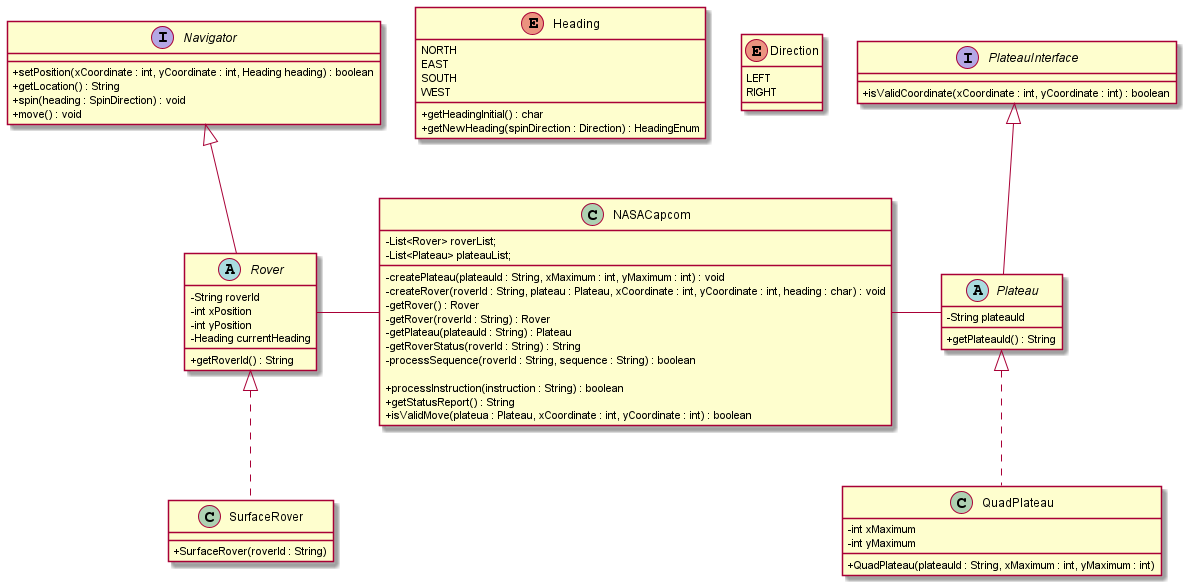
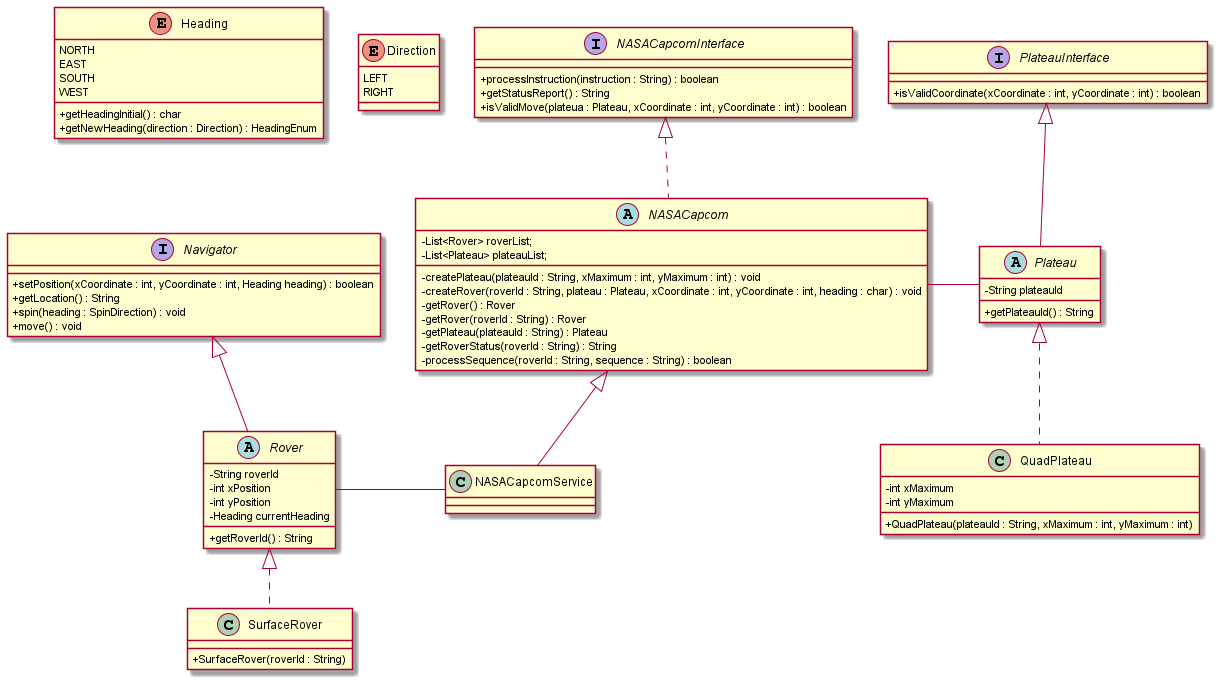
Completed Rover tests.  Split NASACapcom into interface and service. Updated UML

diff --git a/src/test/java/com/probert999/marsrover/RoverTest.java b/src/test/java/com/probert999/marsrover/RoverTest.java
@@ -3,6 +3,9 @@ package com.probert999.marsrover;
 import com.probert999.marsrover.model.DirectionEnum;
 import com.probert999.marsrover.model.HeadingEnum;
 import com.probert999.marsrover.model.SurfaceRover;
+import com.probert999.marsrover.testhelper.NASACapcomStub;
+import org.junit.Before;
+import org.junit.jupiter.api.BeforeEach;
 import org.junit.jupiter.api.Test;
 import org.junit.jupiter.params.ParameterizedTest;
 import org.junit.jupiter.params.provider.Arguments;
@@ -12,50 +15,54 @@ import java.util.stream.Stream;
 
 import static org.junit.jupiter.api.Assertions.assertEquals;
 import static org.junit.jupiter.api.Assertions.assertThrows;
+import static org.mockito.Mockito.mock;
 
 public class RoverTest {
 
+  private NASACapcomStub capcom;
+  private SurfaceRover testRover;
+
+  @BeforeEach
+  public void setup() {
+    capcom = new NASACapcomStub();
+    testRover = new SurfaceRover(capcom,"testRover1");
+  }
+
   @Test
   public void shouldReturnCorrectRoverId() {
-    String testRoverId = "Rover1";
-    SurfaceRover testRover = new SurfaceRover(testRoverId);
-    assertEquals(testRoverId, testRover.getRoverId());
+    String testRoverId = "TestRover";
+    SurfaceRover firstRover = new SurfaceRover(capcom, testRoverId);
+    assertEquals(testRoverId, firstRover.getRoverId());
   }
 
   @Test
   public void shouldBeAbleToSetValidCoordinates() {
-    SurfaceRover testRover = new SurfaceRover("testRover1");
     assertEquals(true, testRover.setPosition(0, 0, HeadingEnum.NORTH));
   }
 
   @Test
   public void shouldNotBeAbleToSetNegativeXCoordinates() {
-    SurfaceRover testRover = new SurfaceRover("testRover1");
     assertEquals(false, testRover.setPosition(-1, 0, HeadingEnum.NORTH));
   }
 
   @Test
   public void shouldNotBeAbleToSetNegativeYCoordinates() {
-    SurfaceRover testRover = new SurfaceRover("testRover1");
     assertEquals(false, testRover.setPosition(0, -1, HeadingEnum.NORTH));
   }
 
   @Test
   public void shouldBeAbleToGetLocation() {
-    SurfaceRover testRover = new SurfaceRover("testRover1");
     testRover.setPosition(0, 0, HeadingEnum.NORTH);
     assertEquals("0 0 N", testRover.getLocation());
   }
 
   @Test
   public void shouldNotBeAbleToGetLocationIfItHasNotBeenSet() {
-    SurfaceRover testRover = new SurfaceRover("testRover1");
     assertThrows(IllegalStateException.class, () -> testRover.getLocation());
   }
 
   @Test
   public void shouldBeAbleToSpinLeft() {
-    SurfaceRover testRover = new SurfaceRover("testRover1");
     testRover.setPosition(0, 0, HeadingEnum.NORTH);
     testRover.spin(DirectionEnum.LEFT);
     assertEquals("0 0 W", testRover.getLocation());
@@ -63,7 +70,6 @@ public class RoverTest {
 
   @Test
   public void shouldBeAbleToSpinRight() {
-    SurfaceRover testRover = new SurfaceRover("testRover1");
     testRover.setPosition(0, 0, HeadingEnum.NORTH);
     testRover.spin(DirectionEnum.RIGHT);
     assertEquals("0 0 E", testRover.getLocation());
@@ -71,14 +77,12 @@ public class RoverTest {
 
   @Test
   public void shouldNotBeAbleToSpinIfHeadingHasNotBeenSet() {
-    SurfaceRover testRover = new SurfaceRover("testRover1");
     assertThrows(IllegalStateException.class, () -> testRover.spin(DirectionEnum.RIGHT));
   }
 
   @ParameterizedTest
   @MethodSource("validMoveTestData")
   public void shouldBeAbleToMoveToValidAndFreeGridReference(HeadingEnum heading, String expectedResult) {
-    SurfaceRover testRover = new SurfaceRover("testRover1");
     testRover.setPosition(2, 2, heading);
     testRover.move();
     assertEquals(expectedResult, testRover.getLocation());
@@ -90,5 +94,13 @@ public class RoverTest {
             Arguments.of(HeadingEnum.EAST, "3 2 E"),
             Arguments.of(HeadingEnum.SOUTH, "2 1 S"),
             Arguments.of(HeadingEnum.WEST, "1 2 W"));
+  }
+
+  @Test
+  public void shouldNotMoveToInvalidSpace() {
+    testRover.setPosition(0, 0, HeadingEnum.SOUTH);
+
+    assertThrows(IllegalStateException.class, () -> testRover.move());
+    assertEquals("0 0 S", testRover.getLocation());
   }
 }

diff --git a/src/main/java/com/probert999/marsrover/model/Rover.java b/src/main/java/com/probert999/marsrover/model/Rover.java
@@ -4,6 +4,7 @@ import java.text.MessageFormat;
 
 public abstract class Rover implements Navigator {
 
+  protected NASACapcom capcom;
   protected String roverId;
   protected int xPosition;
   protected int yPosition;
@@ -46,13 +47,25 @@ public abstract class Rover implements Navigator {
 
   public void move()
   {
+    int newXPosition = xPosition;
+    int newYPosition = yPosition;
     switch (currentHeading)
     {
-      case NORTH -> yPosition++;
-      case SOUTH -> yPosition--;
-      case EAST -> xPosition++;
-      case WEST -> xPosition--;
+      case NORTH -> newYPosition++;
+      case SOUTH -> newYPosition--;
+      case EAST -> newXPosition++;
+      case WEST -> newXPosition--;
     }
+
+    if (capcom.isValidMove(roverId, newXPosition, newYPosition))
+    {
+      xPosition = newXPosition;
+      yPosition = newYPosition;
+    }
+    else {
+      throw new IllegalStateException("Invalid move - position unchanged");
+    }
+
   }
 
 }

diff --git a/src/test/java/com/probert999/marsrover/testhelper/NASACapcomStub.java b/src/test/java/com/probert999/marsrover/testhelper/NASACapcomStub.java
@@ -1,0 +1,19 @@
+package com.probert999.marsrover.testhelper;
+
+import com.probert999.marsrover.model.NASACapcom;
+
+public class NASACapcomStub extends NASACapcom {
+
+    public boolean isValidMove(String roverId, int xCoordinate, int yCoordinate)
+    {
+        return (xCoordinate >=0 && yCoordinate >= 0);
+    };
+
+    public String getStatus()
+    {
+        return "0 0 N";
+    };
+
+    public void processInstruction(String instruction){};
+
+}

diff --git a/src/main/java/com/probert999/marsrover/service/NASACapcomService.java b/src/main/java/com/probert999/marsrover/service/NASACapcomService.java
@@ -1,0 +1,20 @@
+package com.probert999.marsrover.service;
+
+
+import com.probert999.marsrover.model.NASACapcom;
+
+public class NASACapcomService extends NASACapcom {
+
+    public boolean isValidMove(String roverId, int xCoordinate, int yCoordinate)
+    {
+        return true;
+    }
+
+    public String getStatus()
+    {
+        return "0 0 N";
+    };
+
+    public void processInstruction(String instruction)
+    {};
+}

diff --git a/src/main/java/com/probert999/marsrover/model/HeadingEnum.java b/src/main/java/com/probert999/marsrover/model/HeadingEnum.java
@@ -21,10 +21,10 @@ public enum HeadingEnum {
   }
 
 
-  public HeadingEnum getNewHeading(DirectionEnum spinDirection)
+  public HeadingEnum getNewHeading(DirectionEnum direction)
   {
     HeadingEnum newHeading;
-    if (spinDirection == DirectionEnum.LEFT) {
+    if (direction == DirectionEnum.LEFT) {
       newHeading = HeadingEnum.valueOf(this.headingLeft);
       }
     else {

diff --git a/src/main/java/com/probert999/marsrover/model/SurfaceRover.java b/src/main/java/com/probert999/marsrover/model/SurfaceRover.java
@@ -2,8 +2,9 @@ package com.probert999.marsrover.model;
 
 public class SurfaceRover extends Rover {
 
-    public SurfaceRover(String roverId)
+    public SurfaceRover(NASACapcom capcom, String roverId)
     {
+        this.capcom = capcom;
         this.roverId = roverId;
     }
 

diff --git a/src/main/java/com/probert999/marsrover/model/NASACapcomInterface.java b/src/main/java/com/probert999/marsrover/model/NASACapcomInterface.java
@@ -1,0 +1,9 @@
+package com.probert999.marsrover.model;
+
+public interface NASACapcomInterface {
+
+    public boolean isValidMove(String roverId, int xCoordinate, int yCoordinate);
+    public String getStatus();
+    public void processInstruction(String instruction);
+
+}

diff --git a/src/test/java/com/probert999/marsrover/PlateauTest.java b/src/test/java/com/probert999/marsrover/PlateauTest.java
@@ -3,7 +3,6 @@ package com.probert999.marsrover;
 import com.probert999.marsrover.model.QuadPlateau;
 import org.junit.jupiter.api.Test;
 
-
 import static org.junit.jupiter.api.Assertions.assertEquals;
 import static org.junit.jupiter.api.Assertions.assertThrows;
 

diff --git a/src/main/java/com/probert999/marsrover/model/NASACapcom.java b/src/main/java/com/probert999/marsrover/model/NASACapcom.java
@@ -1,0 +1,4 @@
+package com.probert999.marsrover.model;
+
+abstract public class NASACapcom implements NASACapcomInterface {
+}
